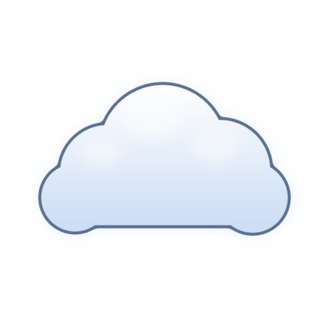
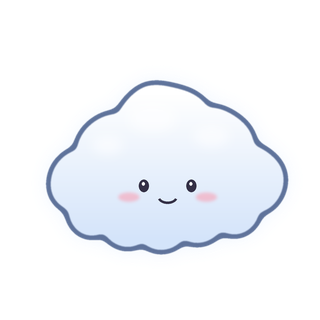
Cute hand-drawn style clouds with faces; version 1.2

diff --git a/tools/make_weather.py b/tools/make_weather.py
@@ -34,6 +34,50 @@ def finish(img, glow, path, strength=0.6, radius=40):
     print("saved", path)
 
 
+def cute_cloud(path, top, bottom, line, glow, happy):
+    """A cloud the way children draw it: uneven puffy bumps, a lumpy bottom, thick soft outline and a face."""
+    rng = np.random.RandomState(7 if happy else 3)
+    m = Image.new("L", (N, N), 0)
+    d = ImageDraw.Draw(m)
+    bumps = [(330, 730, 128), (470, 615, 160), (655, 545, 205), (850, 600, 165), (1000, 715, 132),   # top puffs
+             (365, 850, 96), (505, 880, 104), (650, 888, 108), (795, 878, 100), (935, 848, 92)]       # lumpy bottom
+    for cx, cy, r in bumps:
+        d.ellipse((cx - r, cy - r, cx + r, cy + r), fill=255)
+    d.ellipse((300, 560, 1040, 900), fill=255)
+    # hand-drawn wobble: a smooth random field pushes the edge in and out a little
+    noise = Image.fromarray((rng.rand(10, 10) * 255).astype(np.uint8)).resize((N, N), Image.BICUBIC)
+    soft = np.asarray(m.filter(ImageFilter.GaussianBlur(14)), np.float32) + (np.asarray(noise, np.float32) - 128) * 0.55
+    m = Image.fromarray(((soft > 128) * 255).astype(np.uint8)).filter(ImageFilter.GaussianBlur(1.8))
+
+    img = Image.new("RGBA", (N, N), (0, 0, 0, 0))
+    img.alpha_composite(outline(m, line, 16))
+    img.alpha_composite(gradient_fill(m, top, bottom, 380, 960))
+    hl = Image.new("RGBA", (N, N), (255, 255, 255, 0))
+    hd = ImageDraw.Draw(hl)
+    for cx, cy, r in ((610, 470, 95), (430, 580, 60), (845, 545, 70)):
+        hd.ellipse((cx - r, cy - r * 0.6, cx + r, cy + r * 0.6), fill=(255, 255, 255, 150))
+    img.alpha_composite(Image.composite(hl.filter(ImageFilter.GaussianBlur(20)), Image.new("RGBA", (N, N)), m))
+
+    # face
+    f = ImageDraw.Draw(img)
+    ink = (52, 48, 70)
+    if happy:
+        for ex in (575, 765):
+            f.ellipse((ex - 20, 718, ex + 20, 768), fill=ink)
+            f.ellipse((ex - 8, 728, ex + 4, 742), fill=(255, 255, 255))
+        f.arc((630, 760, 710, 815), 20, 160, fill=ink, width=10)
+    else:
+        for ex in (575, 765):                     # calm, closed eyes
+            f.arc((ex - 28, 715, ex + 28, 765), 200, 340, fill=ink, width=10)
+        f.arc((640, 770, 700, 805), 20, 160, fill=ink, width=9)
+    cheeks = Image.new("RGBA", (N, N), (255, 140, 160, 0))
+    cd = ImageDraw.Draw(cheeks)
+    for ex in (515, 825):
+        cd.ellipse((ex - 42, 770, ex + 42, 806), fill=(255, 140, 160, 120))
+    img.alpha_composite(cheeks.filter(ImageFilter.GaussianBlur(6)))
+    finish(img, glow, path, 0.45, 34)
+
+
 def cloud(path, top, bottom, line, glow):
     m = Image.new("L", (N, N), 0)
     d = ImageDraw.Draw(m)
@@ -98,7 +142,7 @@ def moon():
     finish(img, (255, 240, 190), "src/moon.png", 0.6, 46)
 
 
-cloud("src/cloud_rain.png", (235, 240, 248), (135, 150, 180), (55, 65, 90), (140, 180, 255))
-cloud("src/cloud_snow.png", (255, 255, 255), (205, 222, 245), (90, 110, 145), (220, 235, 255))
+cute_cloud("src/cloud_rain.png", (226, 234, 248), (150, 168, 200), (70, 80, 110), (140, 180, 255), happy=False)
+cute_cloud("src/cloud_snow.png", (255, 255, 255), (212, 228, 250), (95, 115, 155), (220, 235, 255), happy=True)
 sun()
 moon()

diff --git a/src/Installer.cs b/src/Installer.cs
@@ -15,7 +15,7 @@ namespace ButterflyCursor
     static class Installer
     {
         public const string AppName = "Butterfly Cursor";
-        public const string Version = "1.1";
+        public const string Version = "1.2";
         const string AppKey = @"Software\ButterflyCursor";
         const string UninstallKey = @"Software\Microsoft\Windows\CurrentVersion\Uninstall\ButterflyCursor";
 

diff --git a/src/Program.cs b/src/Program.cs
@@ -723,7 +723,7 @@ namespace ButterflyCursor
                 {
                     // from the flat bottom of the cloud
                     p.X = px + Rand(-0.32f, 0.32f) * S * k;
-                    p.Y = py + S * k * 0.19f;
+                    p.Y = py + S * k * 0.25f;
                     p.Vx = vx * 0.25f;
                     if (rain)
                     {

diff --git a/README.md b/README.md
@@ -12,7 +12,7 @@
 
 ### Что умеет
 
-- 🦋 Бабочка, жук, паук, улитка, **ниндзя с мечом** (медитирует на «Пуске»), **рука-помощница** на пальцах и **флаг любой страны** (271 флаг).
+- 🦋 Бабочка, жук, паук, улитка, **ниндзя с мечом** (медитирует на «Пуске»), **рука-помощница** на пальцах, **облака с дождём и снегом, солнце и луна**, а также **флаг любой страны** (271 флаг).
 - 🎬 **Демонстрация для видео**, искры и сюрикены по клику, снег/листья/сакура/тыквы/конфетти по сезону, танец под музыку, ночное свечение и пара секретов.
 - ✨ Светящаяся пыльца: свои цвета (любой RGB), количество, размер, яркость, сияние вокруг существа.
 - 🖼 Свои картинки: JPG/PNG — фон убирается автоматически. Полоска кадров (PNG шириной в несколько квадратов) превращается в анимацию.
@@ -47,7 +47,7 @@ build.bat
 
 ### Features
 
-- 🦋 A butterfly, a beetle, a spider, a snail, a **ninja with a sword** (meditates on the Start button), a **helper hand** walking on its fingers and **any country's flag** (271 flags).
+- 🦋 A butterfly, a beetle, a spider, a snail, a **ninja with a sword** (meditates on the Start button), a **helper hand** walking on its fingers, **rain and snow clouds, the sun and the moon**, and **any country's flag** (271 flags).
 - 🎬 **Demo mode for videos**, sparks and shurikens on click, seasonal snow / leaves / sakura / pumpkins / confetti, dancing to music, night glow and a couple of secrets.
 - ✨ Glowing dust: your own colours (any RGB), amount, size, brightness, a glow around the creature.
 - 🖼 Your own pictures: JPG/PNG with the background removed automatically. A strip of square frames becomes an animation.
@@ -82,7 +82,7 @@ The creature pictures are drawn by the Python scripts in `tools` (Pillow, NumPy,
 
 ### Imkoniyatlari
 
-- 🦋 Kapalak, qoʻngʻiz, oʻrgimchak, shilliqqurt, **qilichli ninja** («Pusk» ustida meditatsiya qiladi), barmoqlarida yuradigan **yordamchi qoʻl** va **istalgan davlat bayrogʻi** (271 ta bayroq).
+- 🦋 Kapalak, qoʻngʻiz, oʻrgimchak, shilliqqurt, **qilichli ninja** («Pusk» ustida meditatsiya qiladi), barmoqlarida yuradigan **yordamchi qoʻl**, **yomgʻirli va qorli bulutlar, quyosh va oy**, hamda **istalgan davlat bayrogʻi** (271 ta bayroq).
 - 🎬 **Video uchun namoyish**, bosganda uchqun va shurikenlar, mavsumiy qor / barglar / sakura / qovoqlar / konfetti, musiqaga raqs, tungi yogʻdu va bir nechta sir.
 - ✨ Yaltiroq chang: oʻz ranglaringiz (istalgan RGB), soni, oʻlchami, yorqinligi, jonzot atrofidagi yogʻdu.
 - 🖼 Oʻz rasmlaringiz: JPG/PNG — fon avtomatik olib tashlanadi. Kvadrat kadrlardan iborat tasma animatsiyaga aylanadi.
